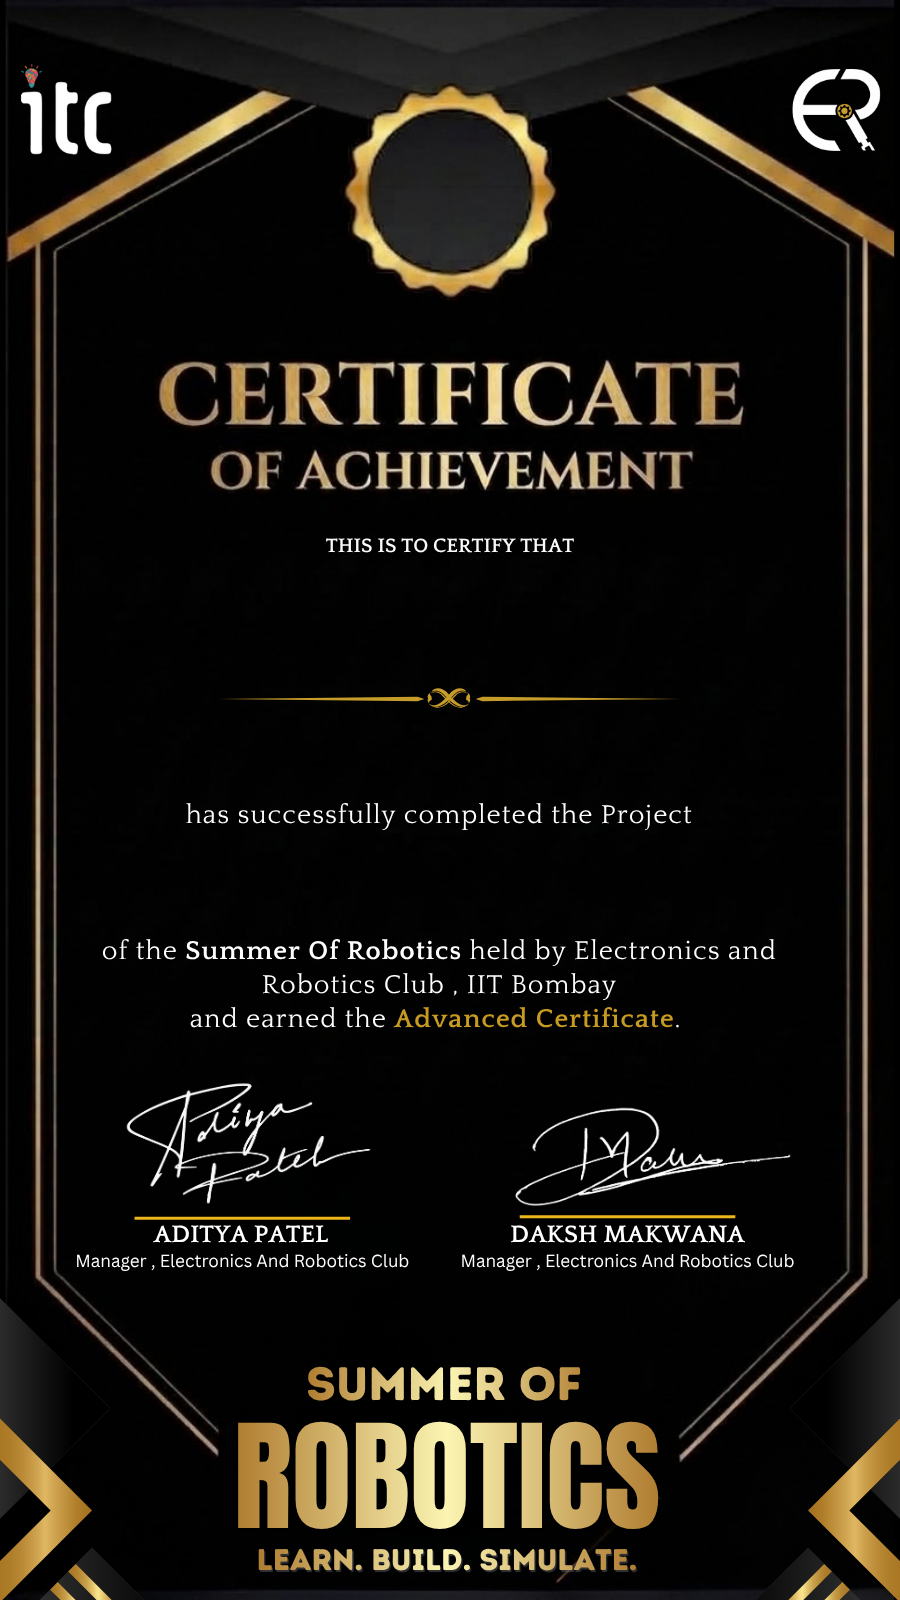
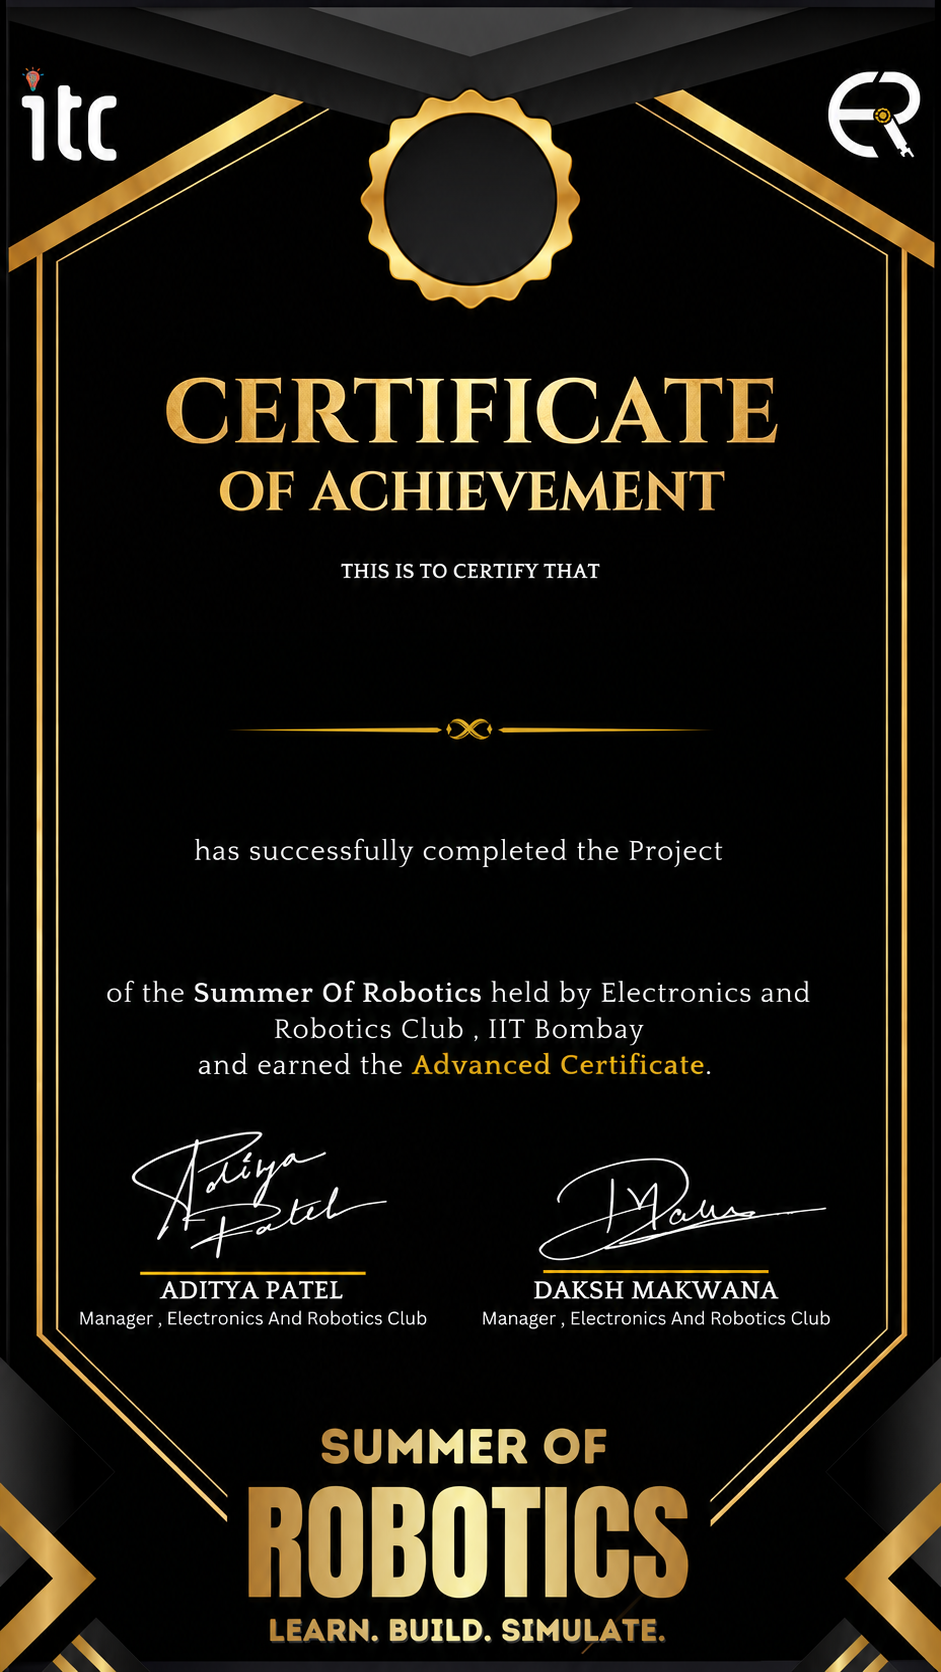
done

diff --git a/src/components/SOR.tsx b/src/components/SOR.tsx
@@ -281,7 +281,7 @@ const SOR: React.FC = () => {
       // 3. Configure text styling: signature-style script font, gold gradient
       // Force the webfont to load before drawing — canvas silently falls back to a
       // default font if it isn't ready yet, instead of waiting for it.
-      const nameFontSize = certType === 'advanced' ? 80 : 130;
+      const nameFontSize = certType === 'advanced' ? 75 : 125;
       await document.fonts.load(`${nameFontSize}px "${CERTIFICATE_NAME_FONT}"`);
       ctx.font = `${nameFontSize}px "${CERTIFICATE_NAME_FONT}", cursive`;
       ctx.textAlign = 'center';
